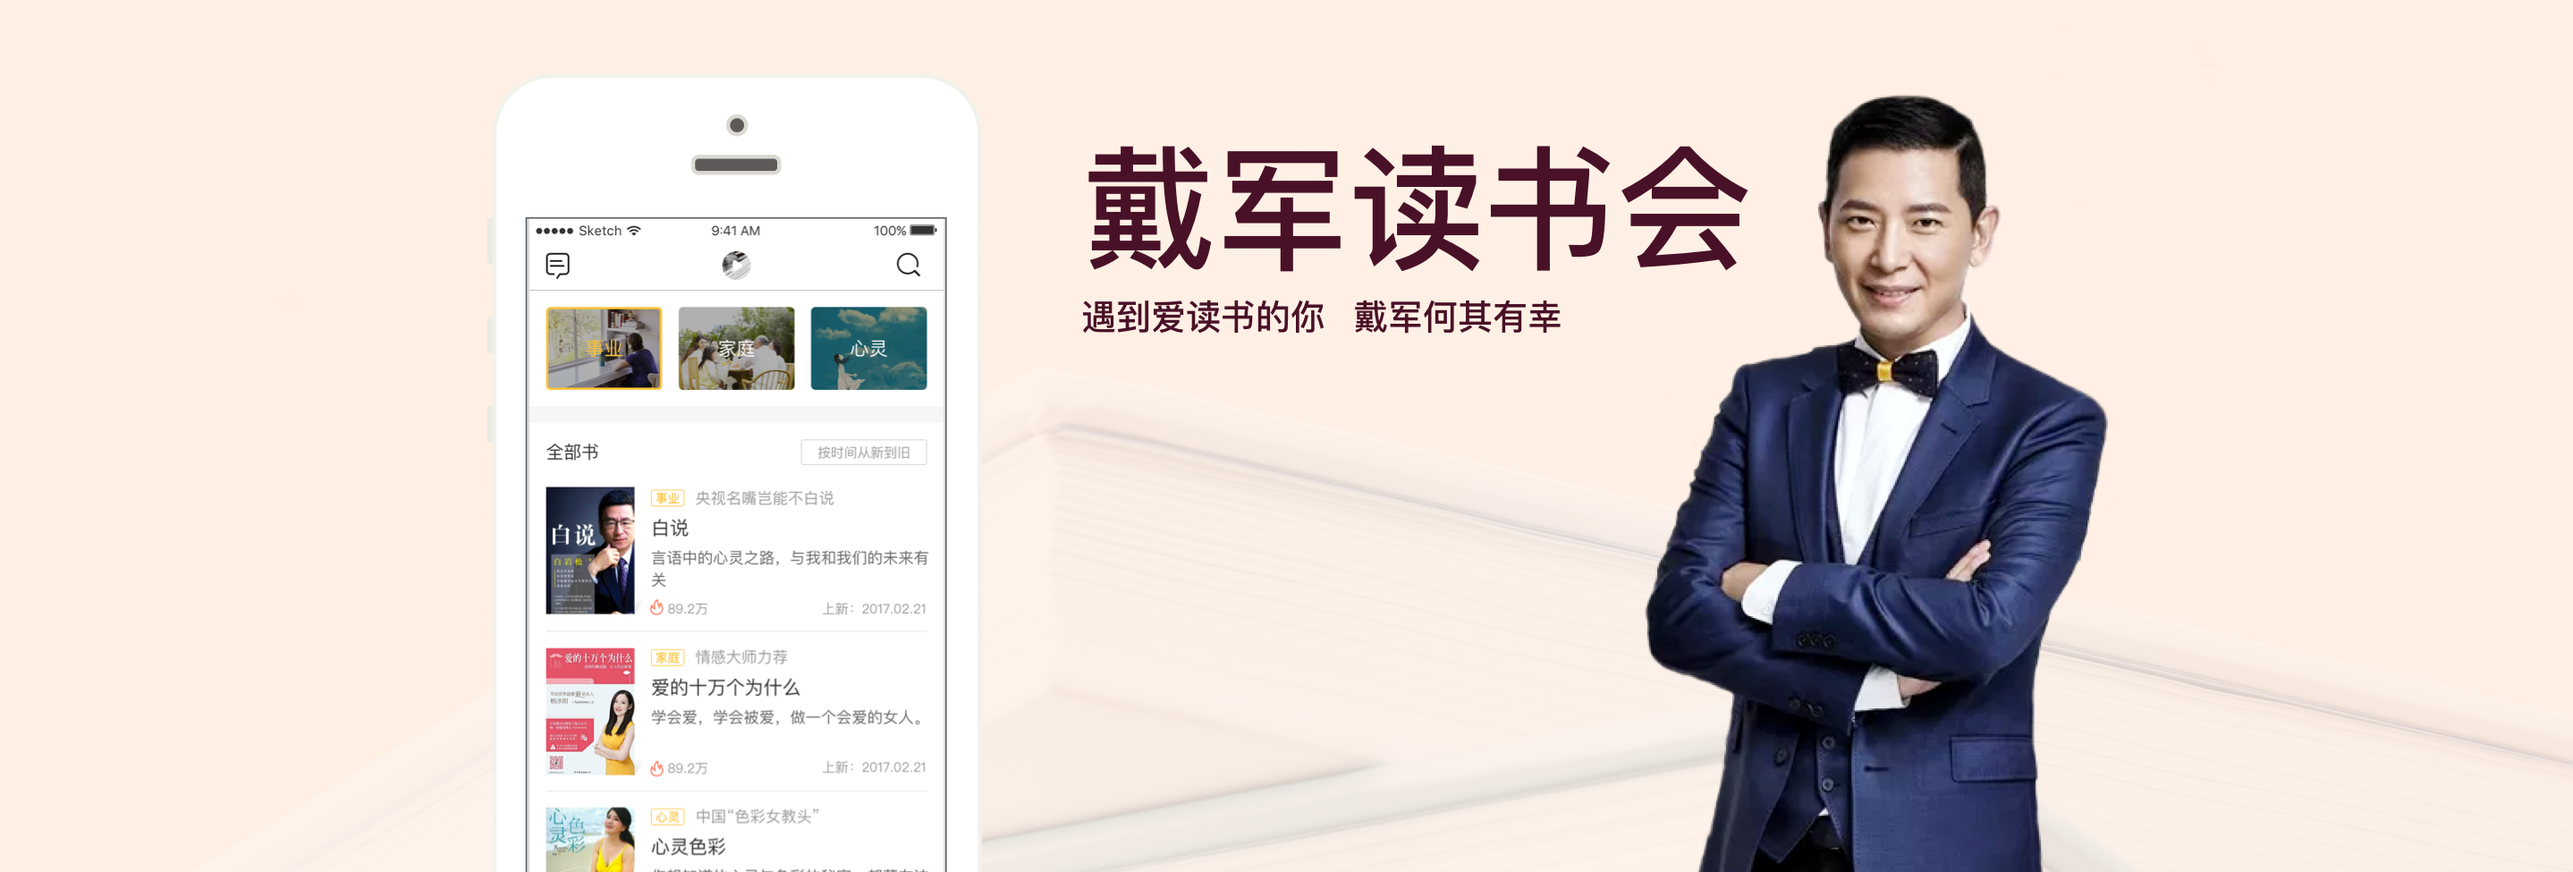
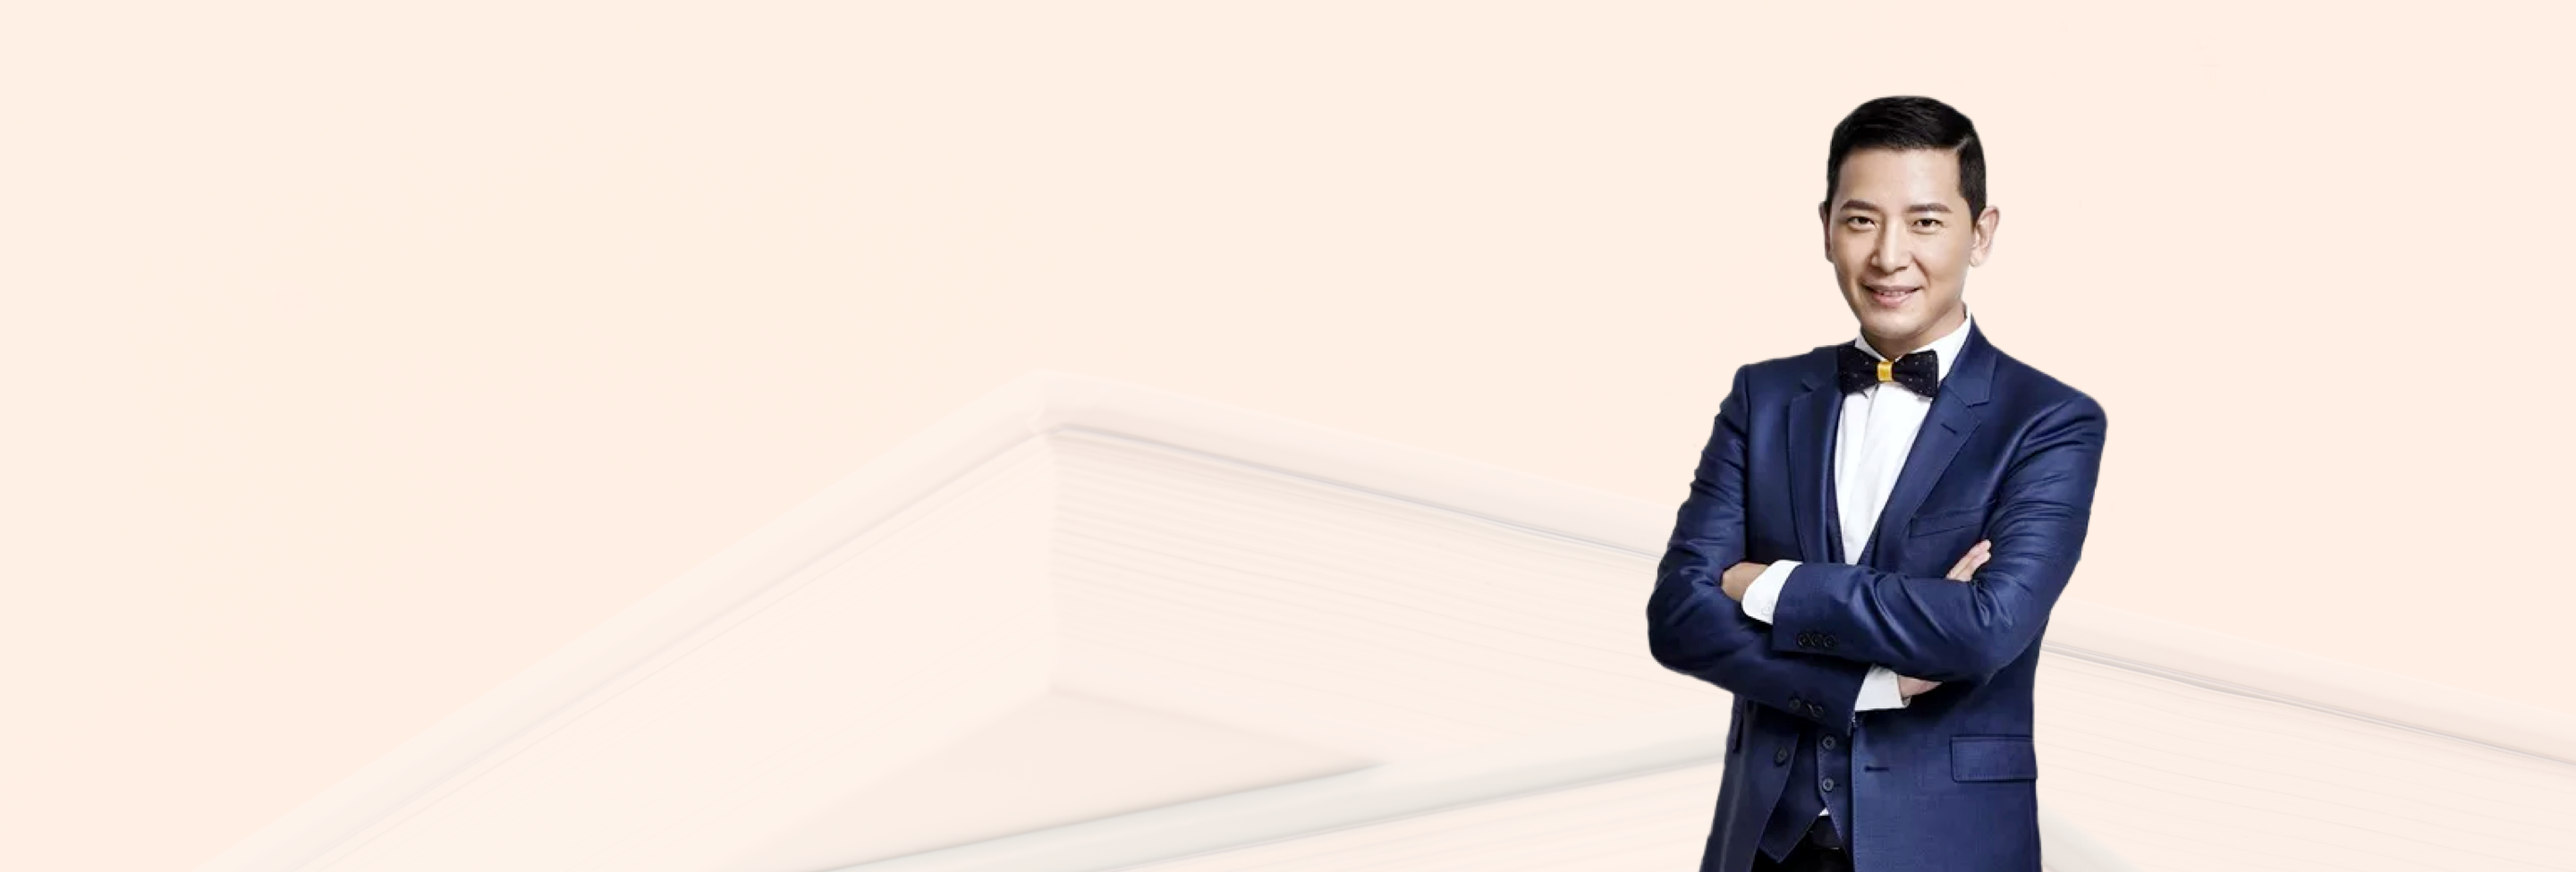
no message

diff --git a/读书会官网/css/index.css b/读书会官网/css/index.css
@@ -1,7 +1,12 @@
 /*#region 初始化*/
 
-html {
+html,body {
     -webkit-text-size-adjust: none;
+    
+}
+body{
+   width: 1920px;
+    margin: 0 auto; 
 }
 
 body,
@@ -223,7 +228,10 @@ section {
     height: 0;
     overflow: hidden;
 }
+
+
 /*con*/
+
 .header {
     position: fixed;
     top: 0;
@@ -231,7 +239,7 @@ section {
     width: 100%;
     height: 110px;
     z-index: 10;
-    min-width: 1280px;
+    width: 1920px;
     background-color: #fff;
 }
 
@@ -257,8 +265,7 @@ section {
 
 .main {
     position: relative;
-    max-width: 1920px;
-    min-width: 1280px;
+    width: 1920px;
     height: 650px;
     margin: 0 auto;
     margin-top: 110px;
@@ -268,10 +275,28 @@ section {
     background-size: 100% 100%;
 }
 
+.main .demo {
+    width: 263px;
+    height: 556px;
+    float: left;
+    margin-left: 22%;
+    margin-top: 47px;
+}
+
 .main .btn {
-    /*border: 1px solid #000;*/
-    margin-top: 337px;
-    margin-left: 42%;
+    float: left;
+    margin-left: 6.5%;
+}
+
+.main .btn h1 {
+    font-size: 100px;
+    color: #491127;
+    margin-top: 85px;
+}
+
+.main .btn h3 {
+    font-size: 26px;
+    color: #491127;
 }
 
 .main .btn-ios {
@@ -281,7 +306,7 @@ section {
     text-align: center;
     line-height: 60px;
     border-radius: 5px;
-    /*margin-top: 50px;*/
+    margin-top: 130px;
 }
 
 .main .btn-android {
@@ -305,4 +330,30 @@ section {
     display: inline-block;
     font-size: 16px;
     color: #fff;
+}
+
+.footer {
+    width: 1207px;
+    margin: 0 auto;
+    padding: 74px 0 50px 0;
+}
+
+.footer h2 {
+    font-size: 30px;
+    color: #666;
+    text-align: center;
+}
+
+.footer .cons {
+    font-size: 16px;
+    color: #6e6e6e;
+    margin-top: 40px;
+    line-height: 22px;
+}
+
+.footer .info {
+    font-size: 14px;
+    margin-top: 46px;
+    color: #666;
+    text-align: center;
 }

diff --git a/读书会官网/index.html b/读书会官网/index.html
@@ -19,8 +19,11 @@
             <p class="title">戴军读书会</p>
         </div>
     </div>
-    <div class="main">
+    <div class="main clearfix">
+        <img src="images/demo.gif" class="demo">
         <div class="btn">
+            <h1>戴军读书会</h1>
+            <h3>遇到爱读书的你  戴军何其有幸</h3>
             <div class="btn-ios">
                 <img src="images/ios.png" alt="ios">
                 <p>iPhone版</p>
@@ -30,6 +33,12 @@
                 <p>Android版</p>
             </div>
         </div>
+    </div>
+    <div class="footer">
+        <h2>关于我们</h2>
+        <p class="cons">新鲜有态度的阅读精化分享平台，跟戴军老师一起读好书，成为更好的自己。有趣不高冷，专业不盲从，感谢爱读书的你，在茫茫人海与我们相遇！戴军读书会，与诸位爱 书人，一起读好书，行趣事。
+        </p>
+        <p class="info">海艾读文化传媒有限公司 版权所有 沪ICP备16054468号-1</p>
     </div>
     <script type="text/javascript"></script>
 </body>
